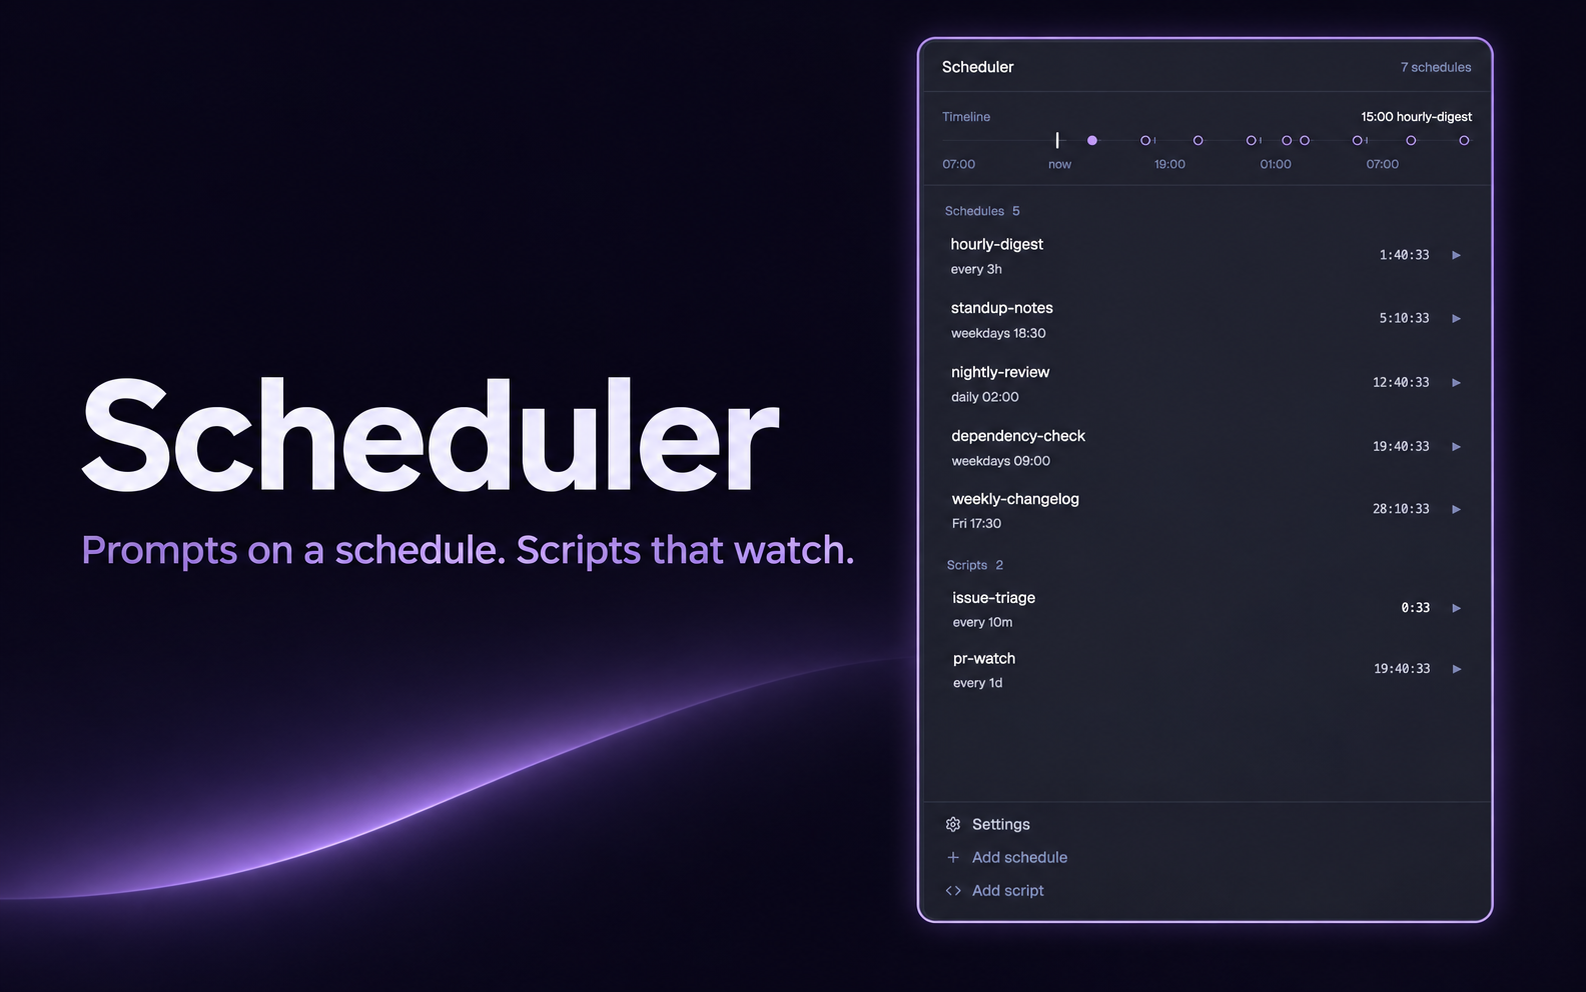
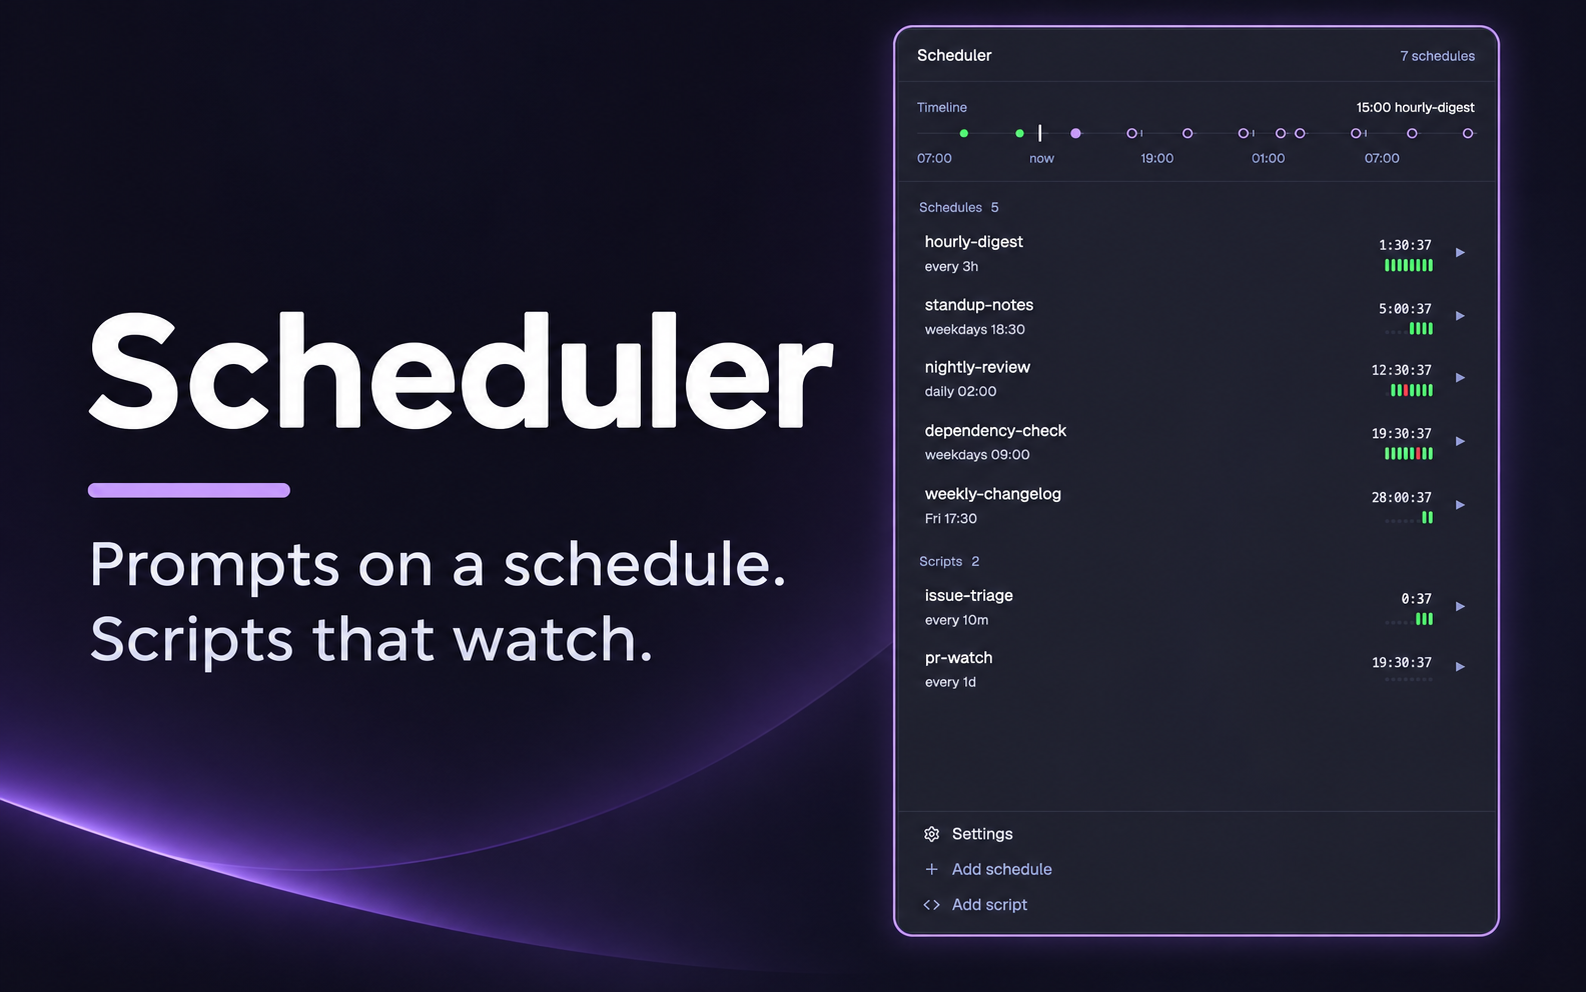
feat: show each schedule's last runs as a strip of bars
The list has the last eight runs under each timer and the schedule's
page the last sixteen: green went well, red went wrong. Screenshots and
the gallery thumbnail retaken.

diff --git a/app/mods/herdr-scheduler/main.js b/app/mods/herdr-scheduler/main.js
@@ -66,6 +66,16 @@ export default class Scheduler extends View {
 
   history(name) { return (shared("scheduler.history") ?? []).filter((r) => r.bot === name); }
 
+  // The last `n` runs as a strip of bars, oldest at the left: green went well, red went wrong, the
+  // state's color while one is going. Slots with no run yet are small dots, so the strip keeps its width.
+  strip(rows, n, t) {
+    const tone = { running: t.working, starting: t.working, blocked: t.blocked, done: t.ansi2, handled: t.ansi2, failed: t.ansi1, missed: t.ansi1, interrupted: t.ansi1 };
+    const runs = rows.slice(0, n).reverse();
+    return h_flex().gap(2).items_end().flex_none()
+      .children(Array.from({ length: n - runs.length }, () => div().w(3).h(3).rounded_full().bg(t.border)))
+      .children(runs.map((r) => div().w(3).h(10).rounded(1.5).bg(tone[state(r)] ?? t.dim)));
+  }
+
   // A run's terminal if it is still there: a background one is peeked at, a pane is gone to.
   // An ended one's last screen is read back into the panel.
   show(row, cx) {
@@ -467,7 +477,6 @@ export default class Scheduler extends View {
     const at = !b.error && next(b.schedule, Date.now()), mono = settings().font_family ?? "JetBrains Mono";
     const wrong = b.error ?? ((s === "failed" || s === "skipped") && last.note);
     const meta = wrong ? L(wrong) : L(describe(b.schedule));
-    const went = s === "done" || s === "handled" ? t.ansi2 : s === "failed" || s === "missed" || s === "interrupted" ? t.ansi1 : null;
     return h_flex().id(`bot-${b.name}`).mx(8).pl(10).pr(8).py(7).gap(10).items_center().rounded(8).cursor_pointer()
       .border_l(2).border_color(word ? color : t.background).when(Boolean(word), (el) => el.bg(t.raised)).hover((st) => st.bg(t.hover))
       .on_click((_e, cx) => { this.open = b.name; this.output = null; cx.notify(); })
@@ -481,9 +490,8 @@ export default class Scheduler extends View {
             : round ? div().text_size(11).text_color(t.muted).child(L("checked {0}", round[0]))
             : div().font_family(mono).text_size(12).text_color(at - Date.now() < 3_600_000 ? t.foreground : t.muted).child(timer(at)))
           .when(Boolean(round) && !word, (e) => e.child(div().font_family(mono).text_size(10.5).text_color(t.dim).child(timer(at))))
-          .when(Boolean(last) && !(round && !word), (e) => e.child(h_flex().gap(4).items_center().text_size(10.5).text_color(t.dim)
-            .when(Boolean(went), (x) => x.child(div().size(5).rounded_full().bg(went)))
-            .child(ago(last.at)))))
+          // How its last eight runs went (all dots before its first run).
+          .when(!(round && !word), (e) => e.child(this.strip(this.history(b.name), 8, t))))
         .child(div().id(`run-${b.name}`).size(24).flex_none().flex().items_center().justify_center().rounded(6).text_size(10)
           .text_color(t.dim).hover((st) => st.bg(t.raised).text_color(t.foreground))
           .on_mouse_down("left", (_e, cx) => cx.stop_propagation()).on_click((_e, cx) => this.go(b, "manual", cx)).child("▶")));
@@ -552,7 +560,7 @@ export default class Scheduler extends View {
       // How its runs went: the last ones as a strip (newest at the right), then each run.
       .child(box()
         .child(h_flex().gap(8).items_center().child(cap("History")).child(div().flex_1())
-          .child(h_flex().gap(3).children(rows.slice(0, 16).reverse().map((r) => div().size(7).rounded(2).bg(tone[state(r)] ?? t.dim)))))
+          .child(this.strip(rows, 16, t)))
         .children(rows.length ? rows.flatMap((r) => {
           const s = state(r);
           return [h_flex().id(`h-${r.id}`).gap(8).px(6).py(5).rounded(6).items_center().cursor_pointer().hover((st) => st.bg(t.hover))

diff --git a/app/RECIPE.md b/app/RECIPE.md
@@ -61,10 +61,11 @@ Top to bottom:
      last run failed, that line is the reason in `ansi1`;
   2. right-aligned: the time left as a timer in the terminal font, 12px (`foreground` in its last hour,
      else `muted`), "20:37:40", "2:40", or the state's word in its color in place of the timer; under
-     it in 10.5px `dim` when the last run was, "1h ago", after a 5px dot (`ansi2` when it is done or
-     handled, `ansi1` when it failed, was missed or interrupted). A code schedule that has made a round
-     and is in no state leads instead with "checked 2m ago" (11px `muted`) over its timer (10.5px
-     `dim`);
+     it a strip of its last eight runs, oldest at the left: a 3px by 10px bar per run (`ansi2` when it
+     is done or handled, `ansi1` when it failed, was missed or interrupted, the state's color while it
+     is going, else `dim`) and a 3px `border` dot for each slot with no run yet. A code schedule that
+     has made a round and is in no state leads instead with "checked 2m ago" (11px `muted`) over its
+     timer (10.5px `dim`);
   3. a 24px "▶" with no frame (`dim`; `raised` background and `foreground` on hover).
   A schedule in a state (running, blocked, paused, gone wrong) has a `raised` background and its left
   border in the state's color; the others are plain, with the border in `background`. A broken file
@@ -104,8 +105,7 @@ Top to bottom:
      label, value truncated). For a code schedule "Runs" instead: Runs, "code: poll, handle" (", ended"
      when it has one), and Checked, "2m ago: 3 items, 0 new" ("failed" when the round threw, "not
      since the last reload" before its first).
-  3. "History", and at its right the last sixteen runs as a strip of 7px squares, newest at the right,
-     each in its state's color (`dim` when it has none); then one row per run, newest first: a 6px dot
+  3. "History", and at its right the last sixteen runs as the same strip of bars as on the list; then one row per run, newest first: a 6px dot
      and the state's word in its color (64px), the item's key and the note or else the trigger, and
      when. "No runs yet." when there are none.
   A broken file's page is one card: "Needs attention" with the pencil and the bin at its right, over

diff --git a/AGENTS.md b/AGENTS.md
@@ -103,8 +103,10 @@ Split a file only when it earns it (`run.js` out of `engine.js` once the three p
   first time it shows; `props: { headless: true }` is the copy for layouts that hide the panel).
 - `preview.png` is the gallery thumbnail: the product's name and a line at the left, a real screenshot of
   the list at the right, generated from that screenshot. `docs/screens.png` is four real screenshots side
-  by side. Both show example schedules only, in English: move the real `jobs/` files away, copy examples
-  in, shoot within 30 seconds (before the first tick) and move them back. Retake both when a screen changes.
+  by side. Both show example schedules only, in English, with example runs put into `scheduler.history`
+  for the strips (rows with status `done`, `failed`, `missed` need no terminal): move the real `jobs/`
+  files away, copy examples in, shoot within 30 seconds (before the first tick) and move them back; the
+  next tick drops the example rows. Retake both when a screen changes.
 
 ## Known gaps
 
